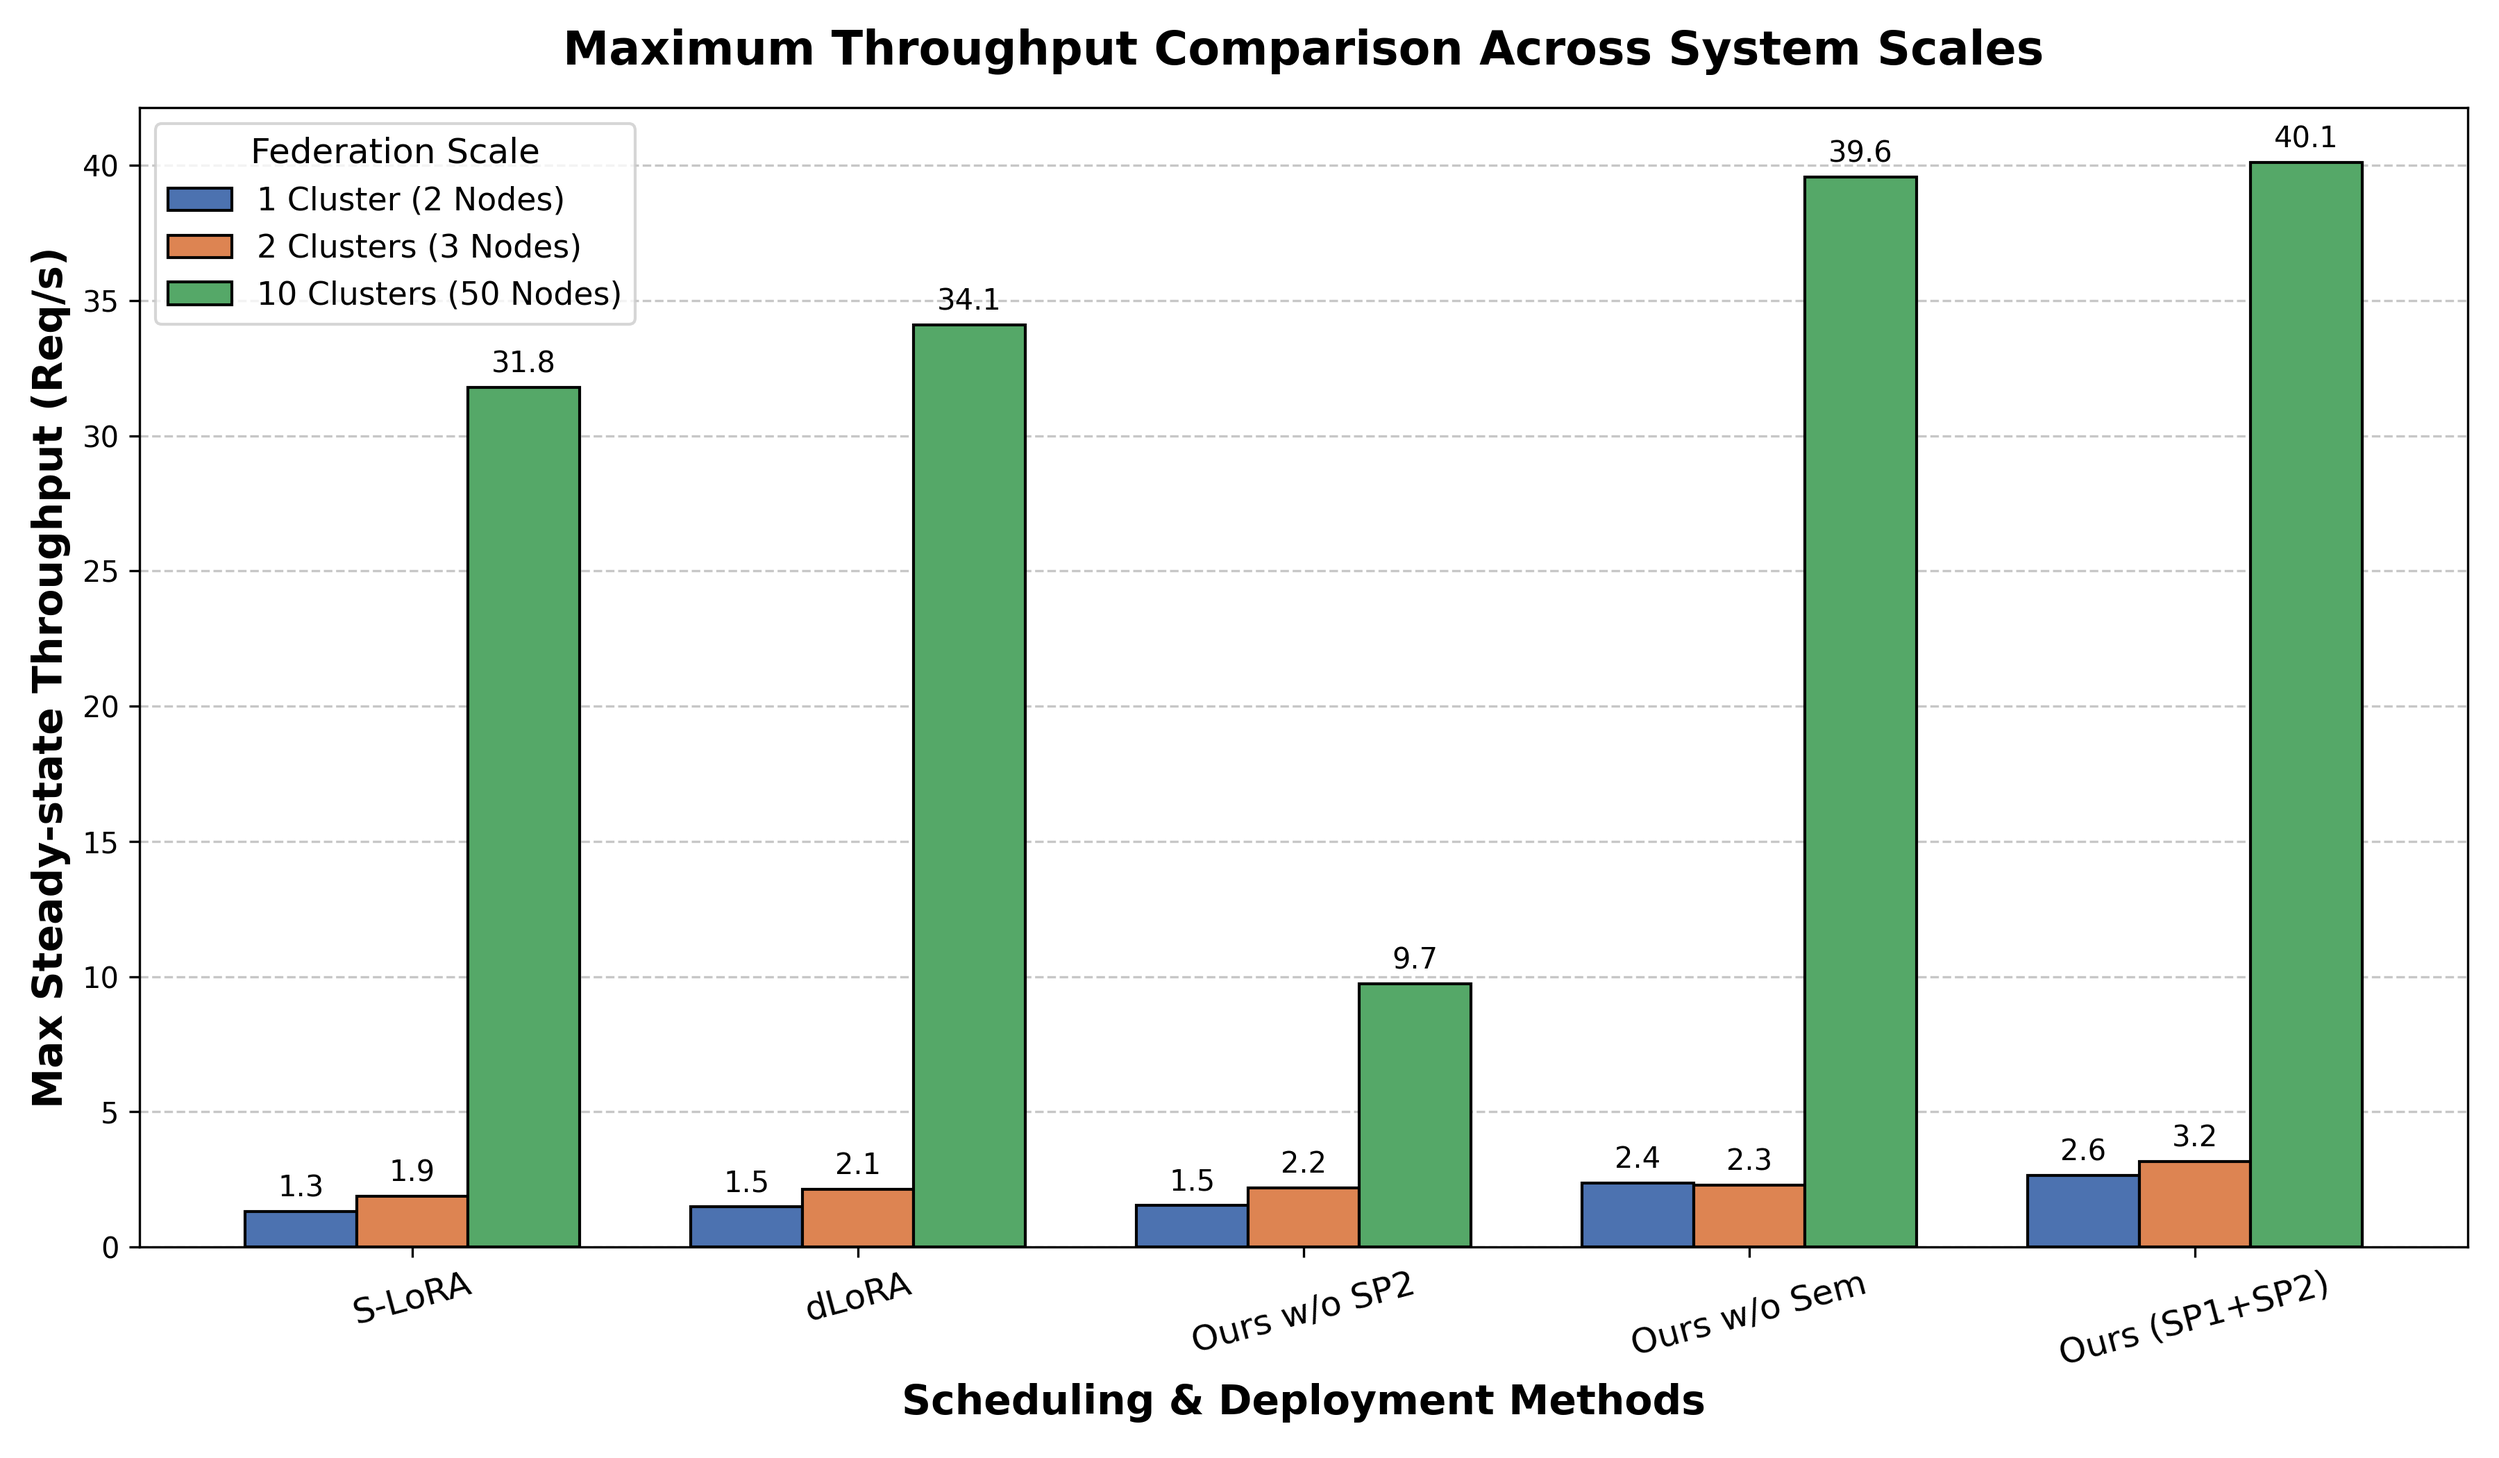
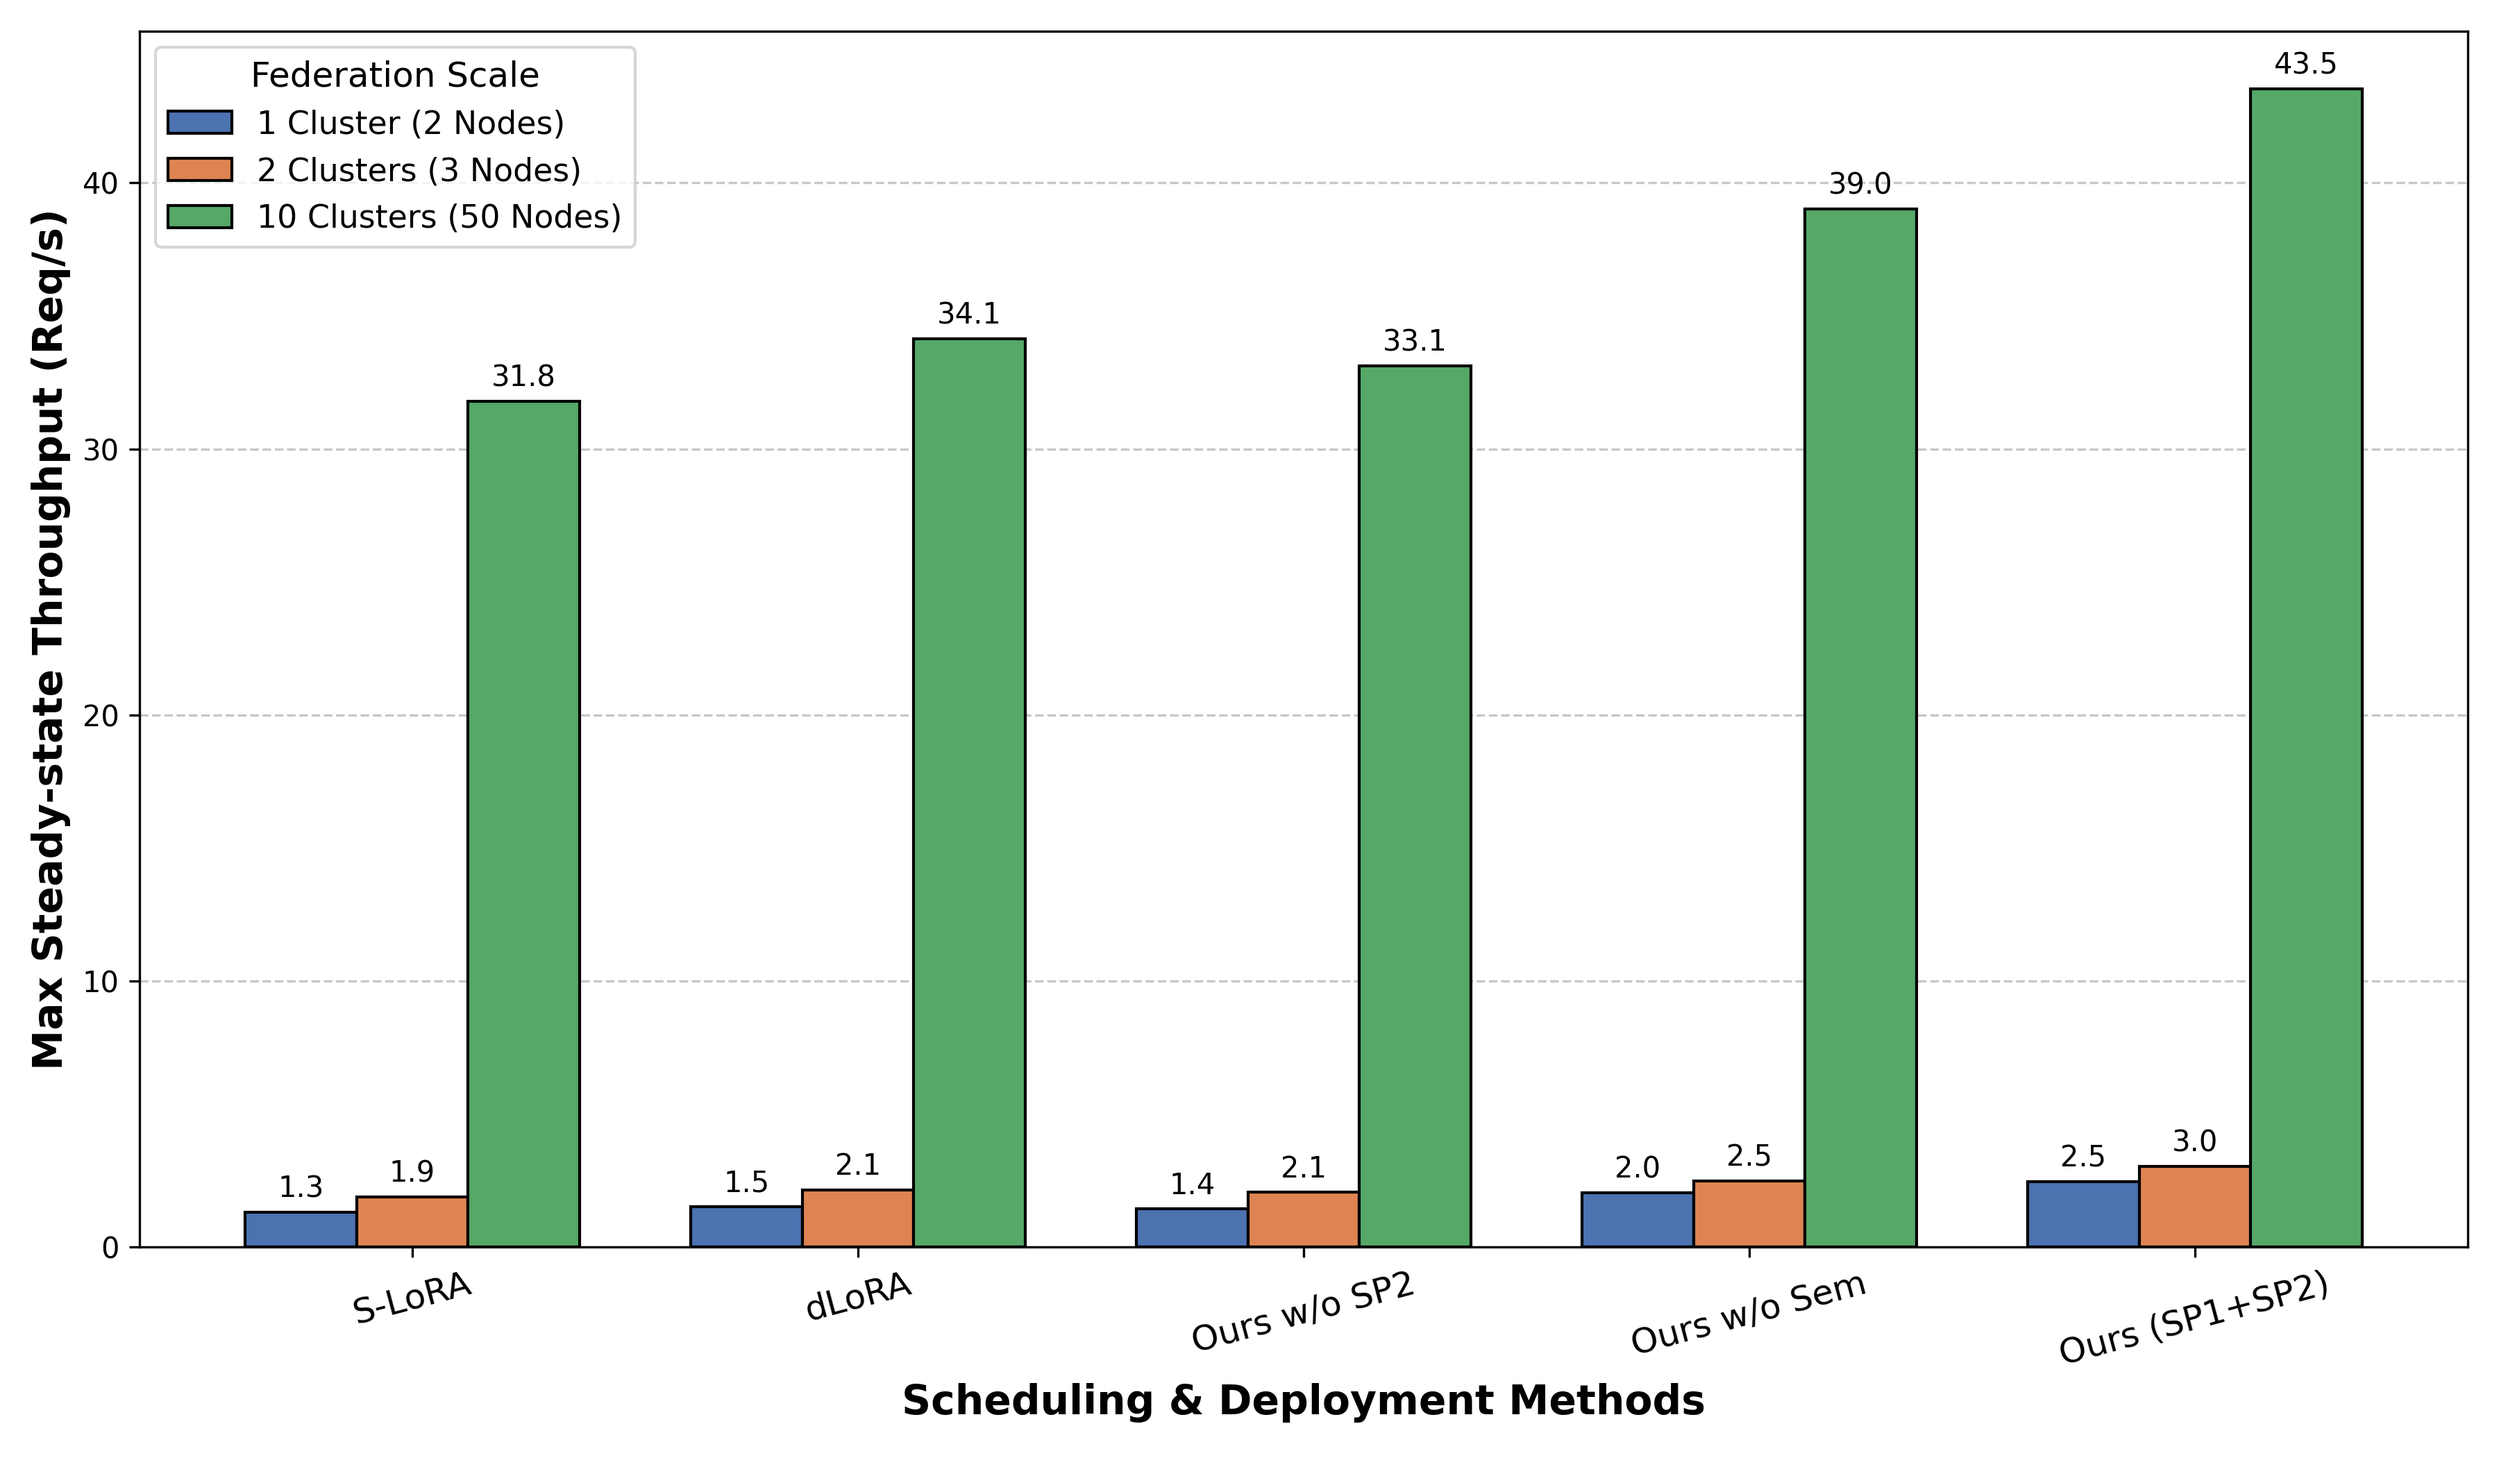
tmp

diff --git a/discrete_sim/sim_control_node.py b/discrete_sim/sim_control_node.py
@@ -519,7 +519,7 @@ class SimControlNodeRandom(SimControlNodeBase):
         if not v_nodes:
             return
 
-        # [修復] 強制鎖定在 Unmerged 模式 (模擬缺乏 SP2)
+        # [修復 1] 強制鎖定在 Unmerged 模式 (模擬缺乏 SP2 動態記憶體管理的慘況)
         for v in v_nodes:
             if v.mode == "merge":
                 v.node.unmerge_all()
@@ -529,30 +529,19 @@ class SimControlNodeRandom(SimControlNodeBase):
         for req in list(self.pending_queue):
             aid = req.adapter_id
             
+            # [修復 2] 為了極限吞吐量測試，拔除嚴格的 Disk Cache Miss Drop！
+            # 允許它像 S-LoRA 一樣把請求塞進去，讓 Compute Node 去承受 SIM_LOAD_DELAY (0.4s)
             if aid not in self.local_available_loras:
-                offloaded = False
-                if not req.is_delegated and self.offload_callback:
-                    target_cluster = self._select_best_offload_target(aid)
-                    if target_cluster and self.offload_callback(req, tgt=target_cluster):
-                        self.offload_out += 1
-                        offloaded = True
-                if not offloaded:
-                    self._handle_drop(req, "Disk Cache Miss (Not provisioned by SP1)")
-                self.pending_queue.remove(req)
-                continue
+                self.local_available_loras.add(aid) # 假裝透過網路下載了
 
             valid = [v for v in v_nodes if v.get_free_slots(aid) > 0]
             valid_ttft = []
             for v in valid:
-                wait_ms = self._clock.now() - req.arrival_time_ms
-                exec_time = self._predict_ttft_simple(v, aid)
-                total = wait_ms / 1000.0 + exec_time
-                # [修復] 為了極限吞吐量測試，放寬 T_MAX 限制讓 Queue 可以堆積
-                if total <= T_MAX * 10.0:
-                    valid_ttft.append(v)
+                # [修復 3] 拔除 T_MAX 限制，允許 Queue 堆積，這樣才能測量硬體的純吞吐量極限
+                valid_ttft.append(v)
 
             if valid_ttft:
-                # [修復] 優先派給已載入的節點，並加入負載平衡
+                # 加入基本的負載平衡，否則隨機派發會塞爆單一節點
                 cache_hits = [v for v in valid_ttft if aid in v.active_loras or aid in v.loaded_adapters]
                 if cache_hits:
                     target = min(cache_hits, key=lambda v: v.running_batch)
@@ -569,7 +558,7 @@ class SimControlNodeRandom(SimControlNodeBase):
                         self.offload_out += 1
                         offloaded = True
                 if not offloaded:
-                    self._handle_drop(req, f"System Full (No Targets)")
+                    self._handle_drop(req, f"System Full")
             self.pending_queue.remove(req)
 
     def _predict_ttft_simple(self, node: VirtualNodeState, target_lora: str) -> float:

diff --git a/discrete_sim/run_max_throughput.py b/discrete_sim/run_max_throughput.py
@@ -23,8 +23,8 @@ EXP_LABELS = {
     1: "Ours (SP1+SP2)",
     2: "Ours w/o Sem",
     3: "Ours w/o SP2",
-    4: "S-LoRA",   # Exp 4 是 LRU + Random
-    5: "dLoRA"     # Exp 5 是 dLoRA + Greedy
+    4: "dLoRA",  
+    5: "S-LoRA"    
 }
 
 def get_mapping_path(num_clusters):
@@ -63,6 +63,13 @@ def run_single_pressure_test(exp_id: int, scale_name: str, total_rps: float):
         sim.network = SimNetwork(seed=42, params=generate_network_params(num_clusters))
         if hasattr(sim, 'efo'):
             sim.efo.network = sim.network
+
+    # ==========================================
+    # [關鍵修復] 將合成預測資料餵給 EFO
+    # ==========================================
+    if hasattr(sim, 'efo'):
+        sim.efo.simulation_df = sim.trace.to_dataframe()
+    # ==========================================
 
     with open(os.devnull, 'w') as fnull:
         with contextlib.redirect_stdout(fnull):

diff --git a/discrete_sim/sim_synthetic_generator.py b/discrete_sim/sim_synthetic_generator.py
@@ -102,3 +102,18 @@ class SimSyntheticGenerator:
     def max_time_ms(self) -> int:
         """Maximum arrival time in milliseconds across all generated requests."""
         return self._max_time_ms
+    
+    def to_dataframe(self) -> "pd.DataFrame":
+        """Convert generated events to a DataFrame compatible with EFO forecasting."""
+        import pandas as pd
+        records = []
+        for t_ms, reqs in self._events.items():
+            arr_sec = t_ms / 1000.0
+            for cluster, lid in reqs:
+                records.append({
+                    "arrival_sec": arr_sec,
+                    "cluster": cluster,
+                    # EFO 預設會去找 "lora_id" 欄位，它可以是整數或字串
+                    "lora_id": lid 
+                })
+        return pd.DataFrame(records)

diff --git a/config.py b/config.py
@@ -98,8 +98,8 @@ SP2_INTERVAL_SECONDS = 3             # SP2 局部優化的執行間隔 (秒)
 
 
 
-
-MERGED_CAPACITY = 25              # 讓 Ours 在高負載時可以獨佔 VRAM 衝高吞吐
-UNMERGED_CAPACITY = 10            # 限制 S-LoRA 與 dLoRA 的並行能力
-DELTA_LOAD_S = 0.4                # 增加冷啟動懲罰，凸顯語意替換的優勢
-LORA_CACHE_CAPACITY = 8           # 縮小快取，打破 dLoRA 的 LRU 優勢
+# #for max throughput plot
+# MERGED_CAPACITY = 20              # 讓 Ours 在高負載時可以獨佔 VRAM 衝高吞吐
+# UNMERGED_CAPACITY = 10            # 限制 S-LoRA 與 dLoRA 的並行能力
+# DELTA_LOAD_S = 0.6                # 增加冷啟動懲罰，凸顯語意替換的優勢
+# LORA_CACHE_CAPACITY = 8           # 縮小快取，打破 dLoRA 的 LRU 優勢

diff --git a/discrete_sim/draw_max_throughput.py b/discrete_sim/draw_max_throughput.py
@@ -47,7 +47,7 @@ def draw_throughput_barchart(csv_path="max_throughput_results.csv", output_path=
     # 5. 美化與標籤設定
     ax.set_ylabel('Max Steady-state Throughput (Req/s)', fontsize=14, fontweight='bold')
     ax.set_xlabel('Scheduling & Deployment Methods', fontsize=14, fontweight='bold')
-    ax.set_title('Maximum Throughput Comparison Across System Scales', fontsize=16, fontweight='bold', pad=15)
+    # ax.set_title('Maximum Throughput Comparison Across System Scales', fontsize=16, fontweight='bold', pad=15)
     
     # 設定 X 軸的刻度與文字
     ax.set_xticks(x)
